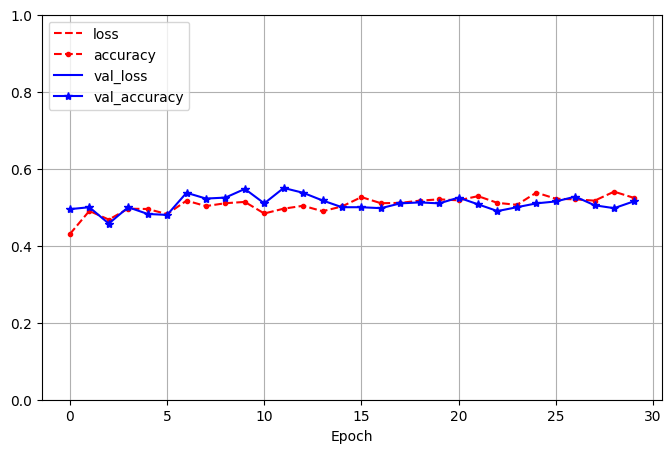
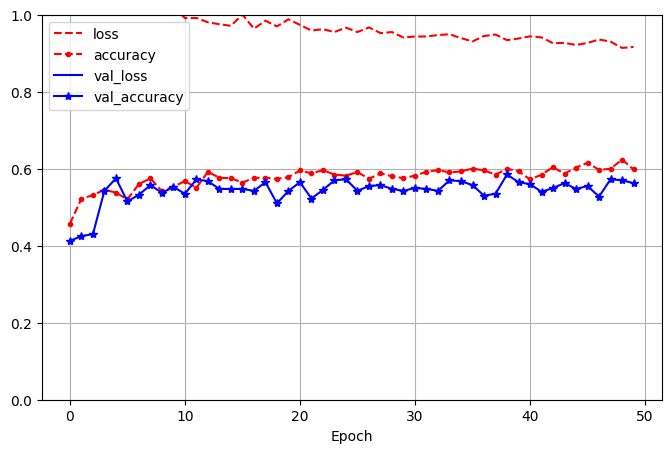
updated 1DCNN model

diff --git a/README.md b/README.md
@@ -205,24 +205,25 @@ model = tf.keras.models.Sequential([
 ![Alt text](1DCNN-D.png)
 
 ### 1DCNN
-I got an accuaracy ~52%
+I got an accuaracy ~60%
 ``` python
 # create sequential model
 model = tf.keras.models.Sequential([
-    tf.keras.layers.Conv1D(11, 2, activation='relu', input_shape=X_train_d.shape[1:]),
+    tf.keras.layers.Conv1D(32, 3, activation='relu', input_shape=X_train_d.shape[1:]),
     tf.keras.layers.Flatten(),
-    tf.keras.layers.Dense(16, activation='relu'), # First Dense layer
+    tf.keras.layers.Dense(120, activation='relu'), # First Dense layer
     tf.keras.layers.Dropout(0.3), # First Dropout layer
     tf.keras.layers.BatchNormalization(), # First Batch normalization layer
-    tf.keras.layers.Dense(16, activation='relu'), # Second Dense layer
+    tf.keras.layers.Dense(120, activation='relu'), # Second Dense layer
     tf.keras.layers.Dropout(0.3), # Second Dropout layer
     tf.keras.layers.BatchNormalization(), # Second Batch normalization layer
-    tf.keras.layers.Dense(16, activation='relu'), # Third Dense layer
+    tf.keras.layers.Dense(120, activation='relu'), # Third Dense layer
     tf.keras.layers.Dropout(0.3), # Third Dropout layer
     tf.keras.layers.BatchNormalization(), # Third Batch normalization layer
-    tf.keras.layers.Dense(16, activation='relu'), # Fourth Dense layer
+    tf.keras.layers.Dense(120, activation='relu'), # Fourth Dense layer
     tf.keras.layers.Dense(10, activation='softmax')
 ])
+
 ```
 
 ![Alt text](1DCNN-Acc.png)
@@ -237,7 +238,7 @@ Model   | My Accuracy | Paper's Accuaracy
 DNN-D   | ~61%        | 81%
 DNN     | ~51%        | 82.5%
 1DCNN-D | ~62%        | 82%
-1DCNN   | ~52%        | 83%             
+1DCNN   | ~60%        | 83%             
 
 Traditional Models the Paper Compared Against:
 
